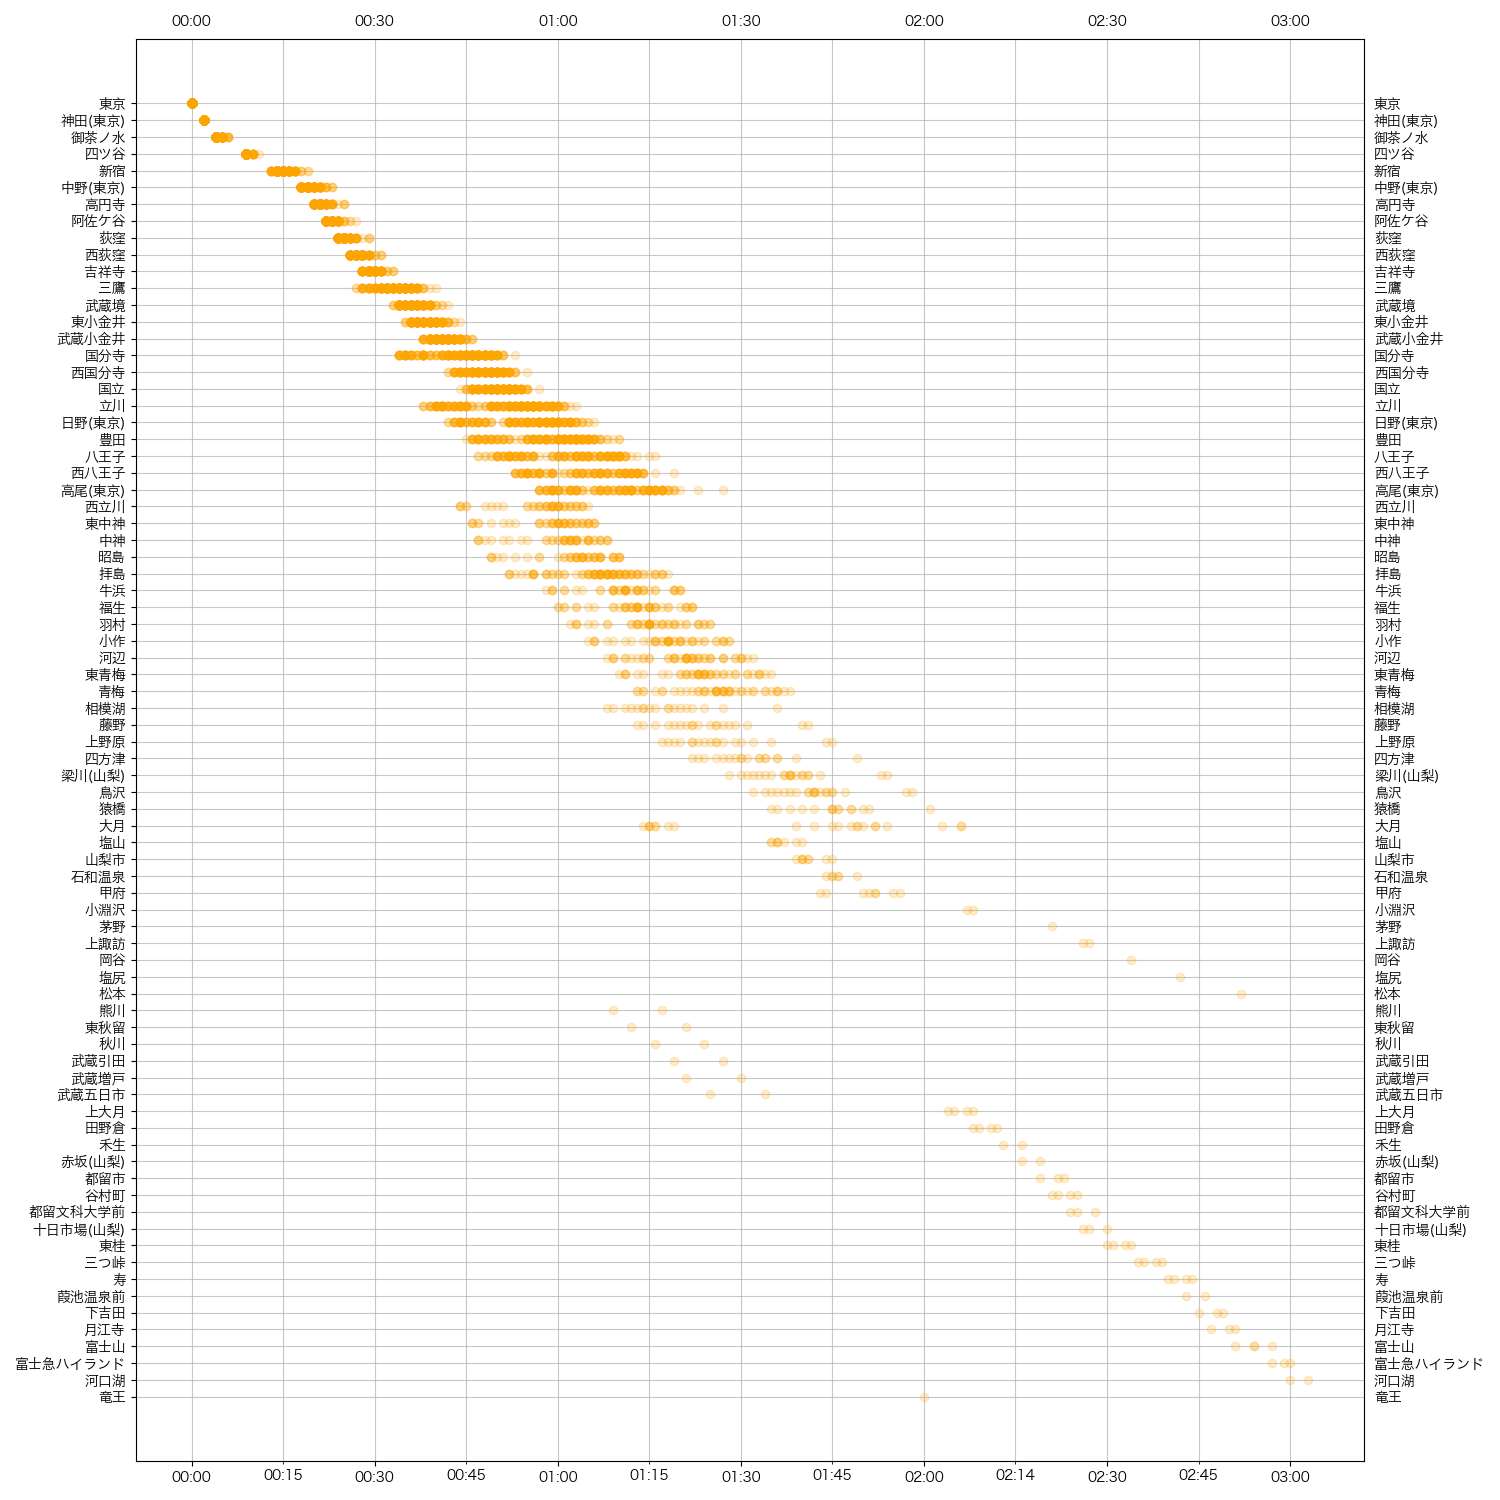
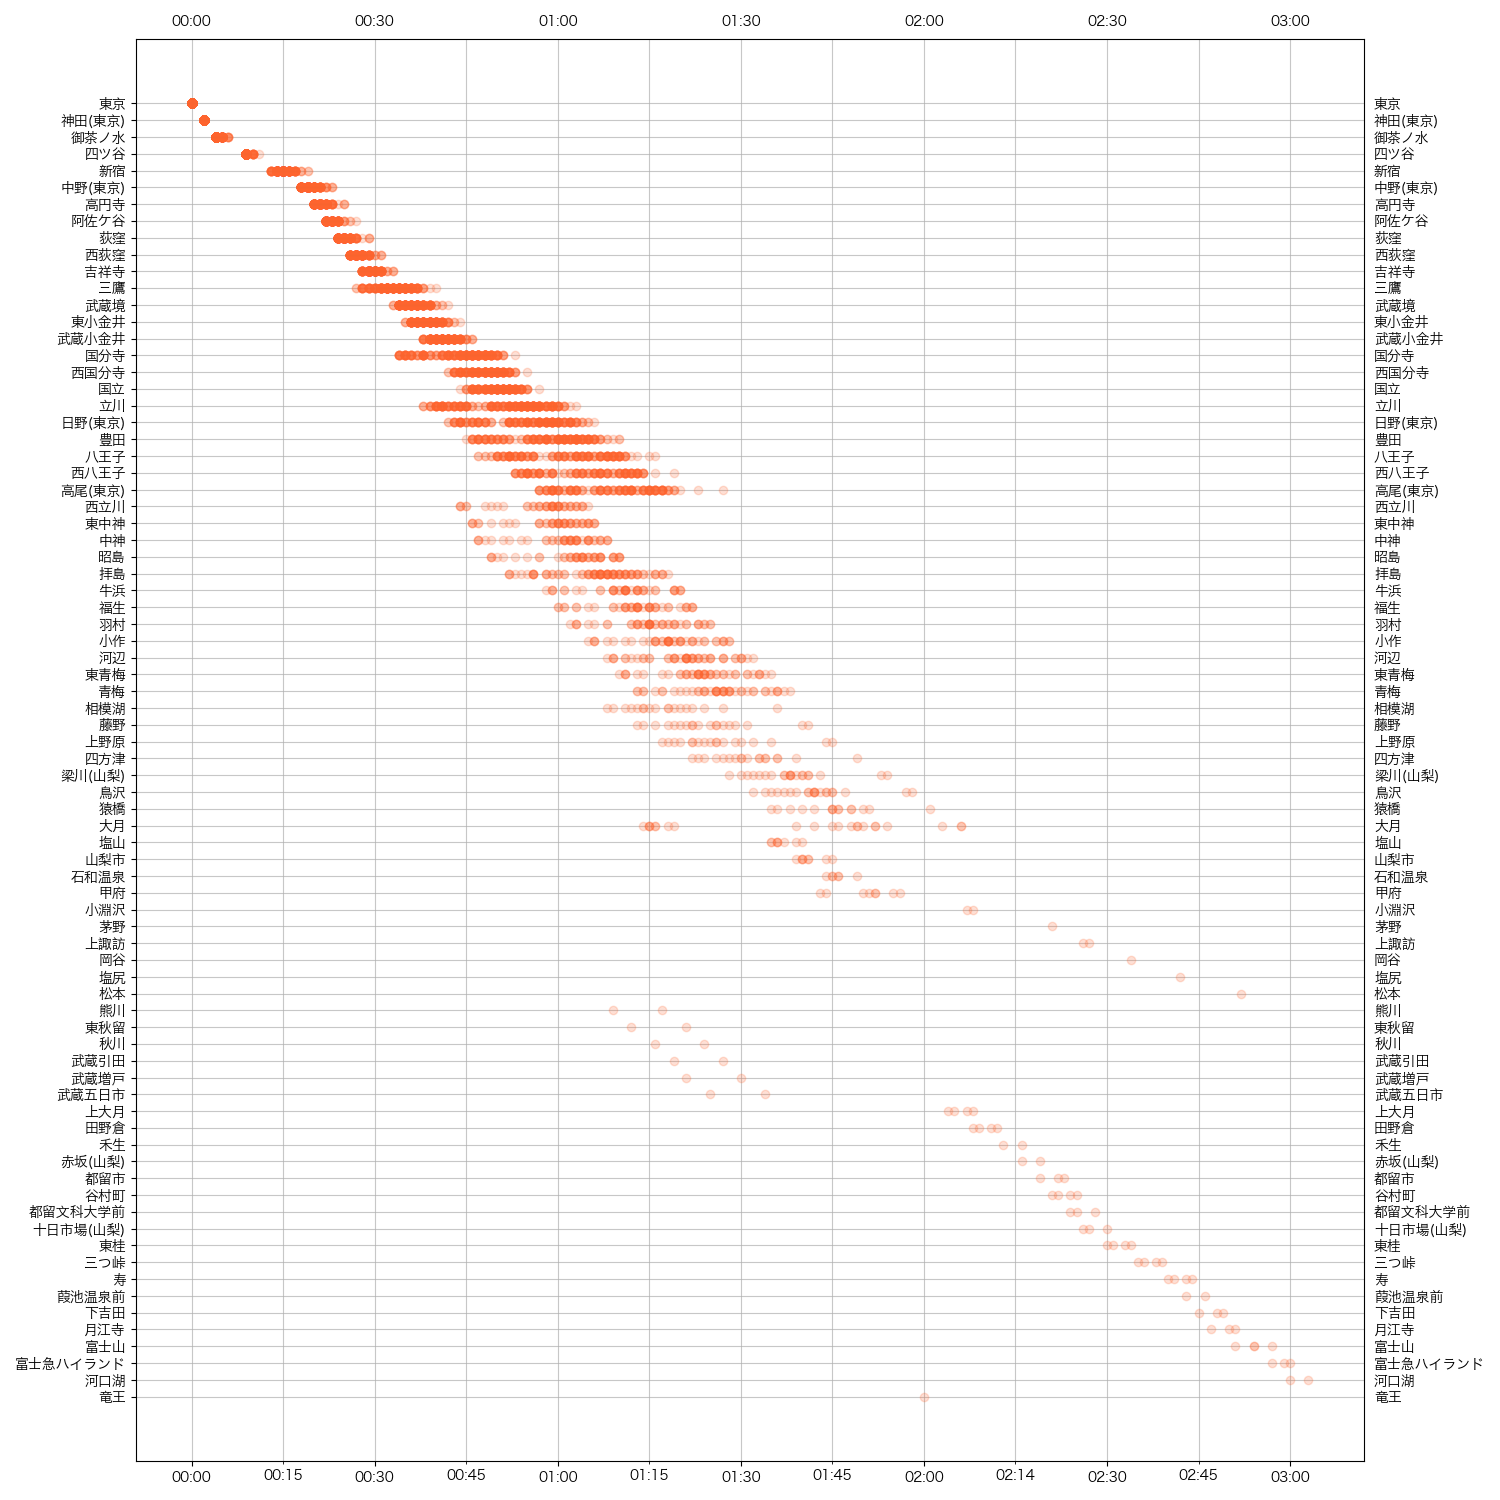
change color by line

diff --git a/main.py b/main.py
@@ -6,7 +6,7 @@ import scrap_html
 import prepare_plot
 import plot
 
-def main(url, line_name):
+def main(url, line_name, line_color):
     save_page.main(url, line_name)
     get_urls.main(url, line_name)
     download.main(line_name)
@@ -20,21 +20,23 @@ def main(url, line_name):
         return
 
     df = prepare_plot.prepare_normal(line_name)
-    plot.main(df, line_name, 'normal', alpha=0.5, line=True)
+    plot.main(df, line_name, 'normal', alpha=0.5, color=line_color, line=True)
 
     # If only normal was missing, exit now
     if delta.exists() and delta_scatter.exists():
         return
     prepare_plot.prepare_delta(df)
-    plot.main(df, line_name, 'delta', alpha=0.2, line=True)
-    plot.main(df, line_name, 'delta_scatter', alpha=0.2, line=False)
+    plot.main(df, line_name, 'delta', alpha=0.2, color=line_color, line=True)
+    plot.main(df, line_name, 'delta_scatter', alpha=0.2, color=line_color, line=False)
 
 
 if __name__ == '__main__':
     # don't use "current" results, always pin to a specific date
     # NO: 'https://ekitan.com/timetable/railway/line-station/180-0/d1'
-    #url = 'https://ekitan.com/timetable/railway/line-station/184-20/d2?dt=20211101'
     #line_name = 'chuo_sobu'
-    url = 'https://ekitan.com/timetable/railway/line-station/180-0/d1?dt=20211101'
+    #line_color = '#fdbc00'
+    #url = 'https://ekitan.com/timetable/railway/line-station/184-20/d2?dt=20211101'
     line_name = 'chuo'
-    main(url, line_name)
+    line_color = '#FE642E'
+    url = 'https://ekitan.com/timetable/railway/line-station/180-0/d1?dt=20211101'
+    main(url, line_name, line_color)

diff --git a/plot.py b/plot.py
@@ -6,7 +6,10 @@ from matplotlib.ticker import AutoMinorLocator
 from common import mkdirs_touch_open
 
 
-def main(df: 'pd.DataFrame', line_name: str, plot_name: str, alpha: float, line: bool):
+def main(
+    df: 'pd.DataFrame', line_name: str, plot_name: str, alpha: float,
+    color: str, line: bool,
+):
     outfile = Path(f'plots/{line_name}_{plot_name}.png')
     if outfile.exists():
         return
@@ -17,7 +20,7 @@ def main(df: 'pd.DataFrame', line_name: str, plot_name: str, alpha: float, line:
     plt.figure(figsize=(15, 15))
 
     args = dict(
-        color='orange',
+        color=color,
         alpha=alpha,
         marker='o'
     )
